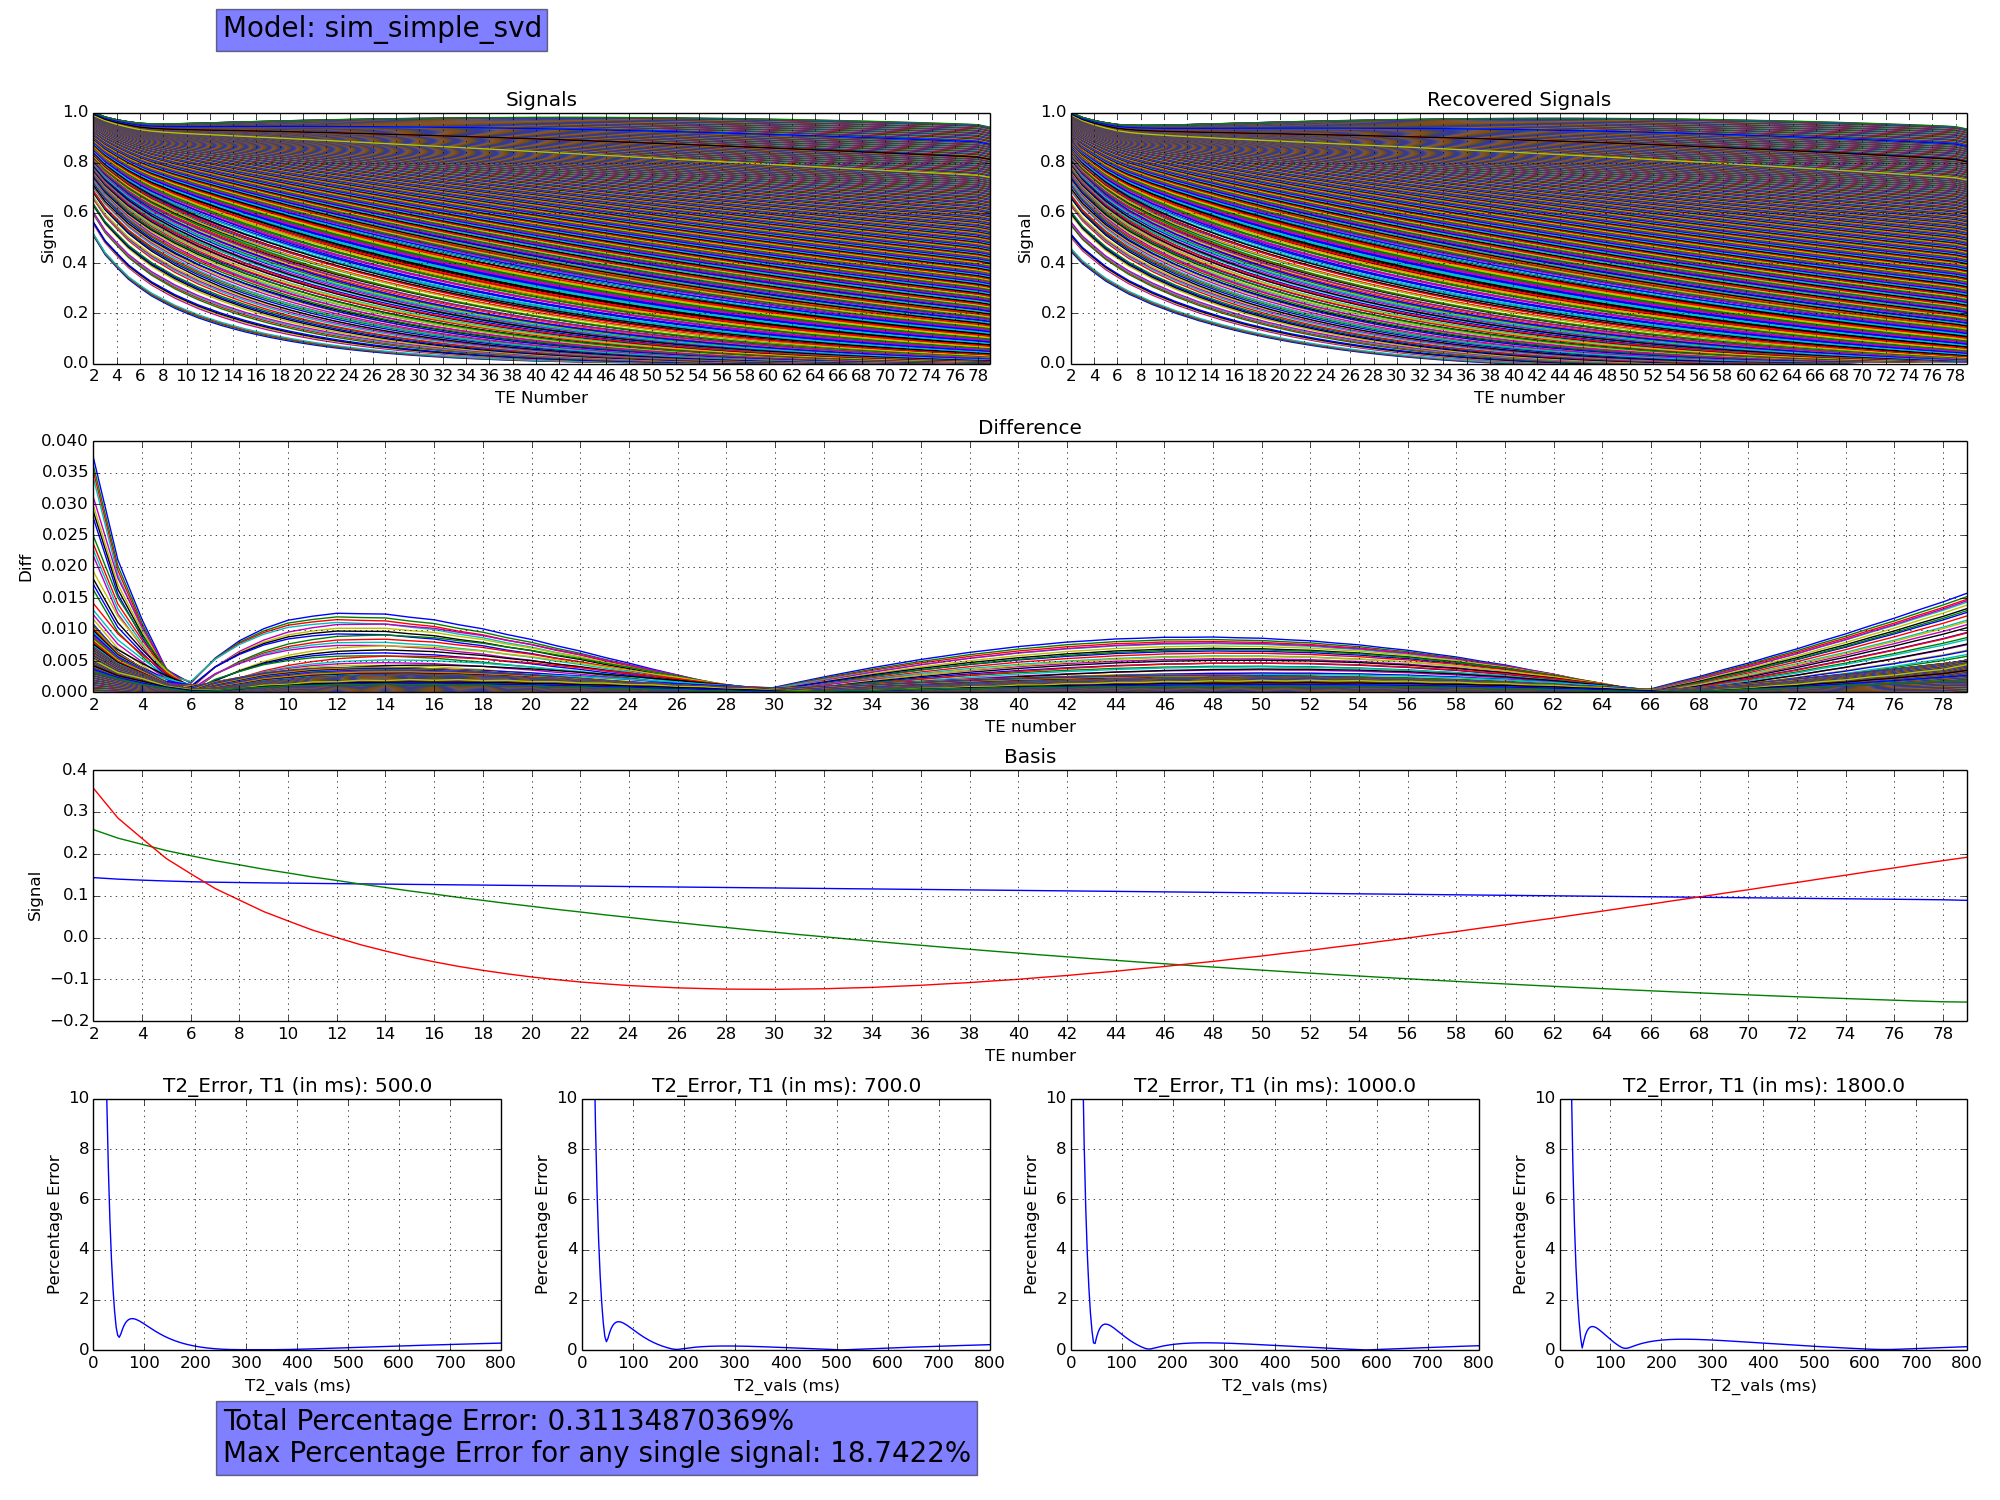
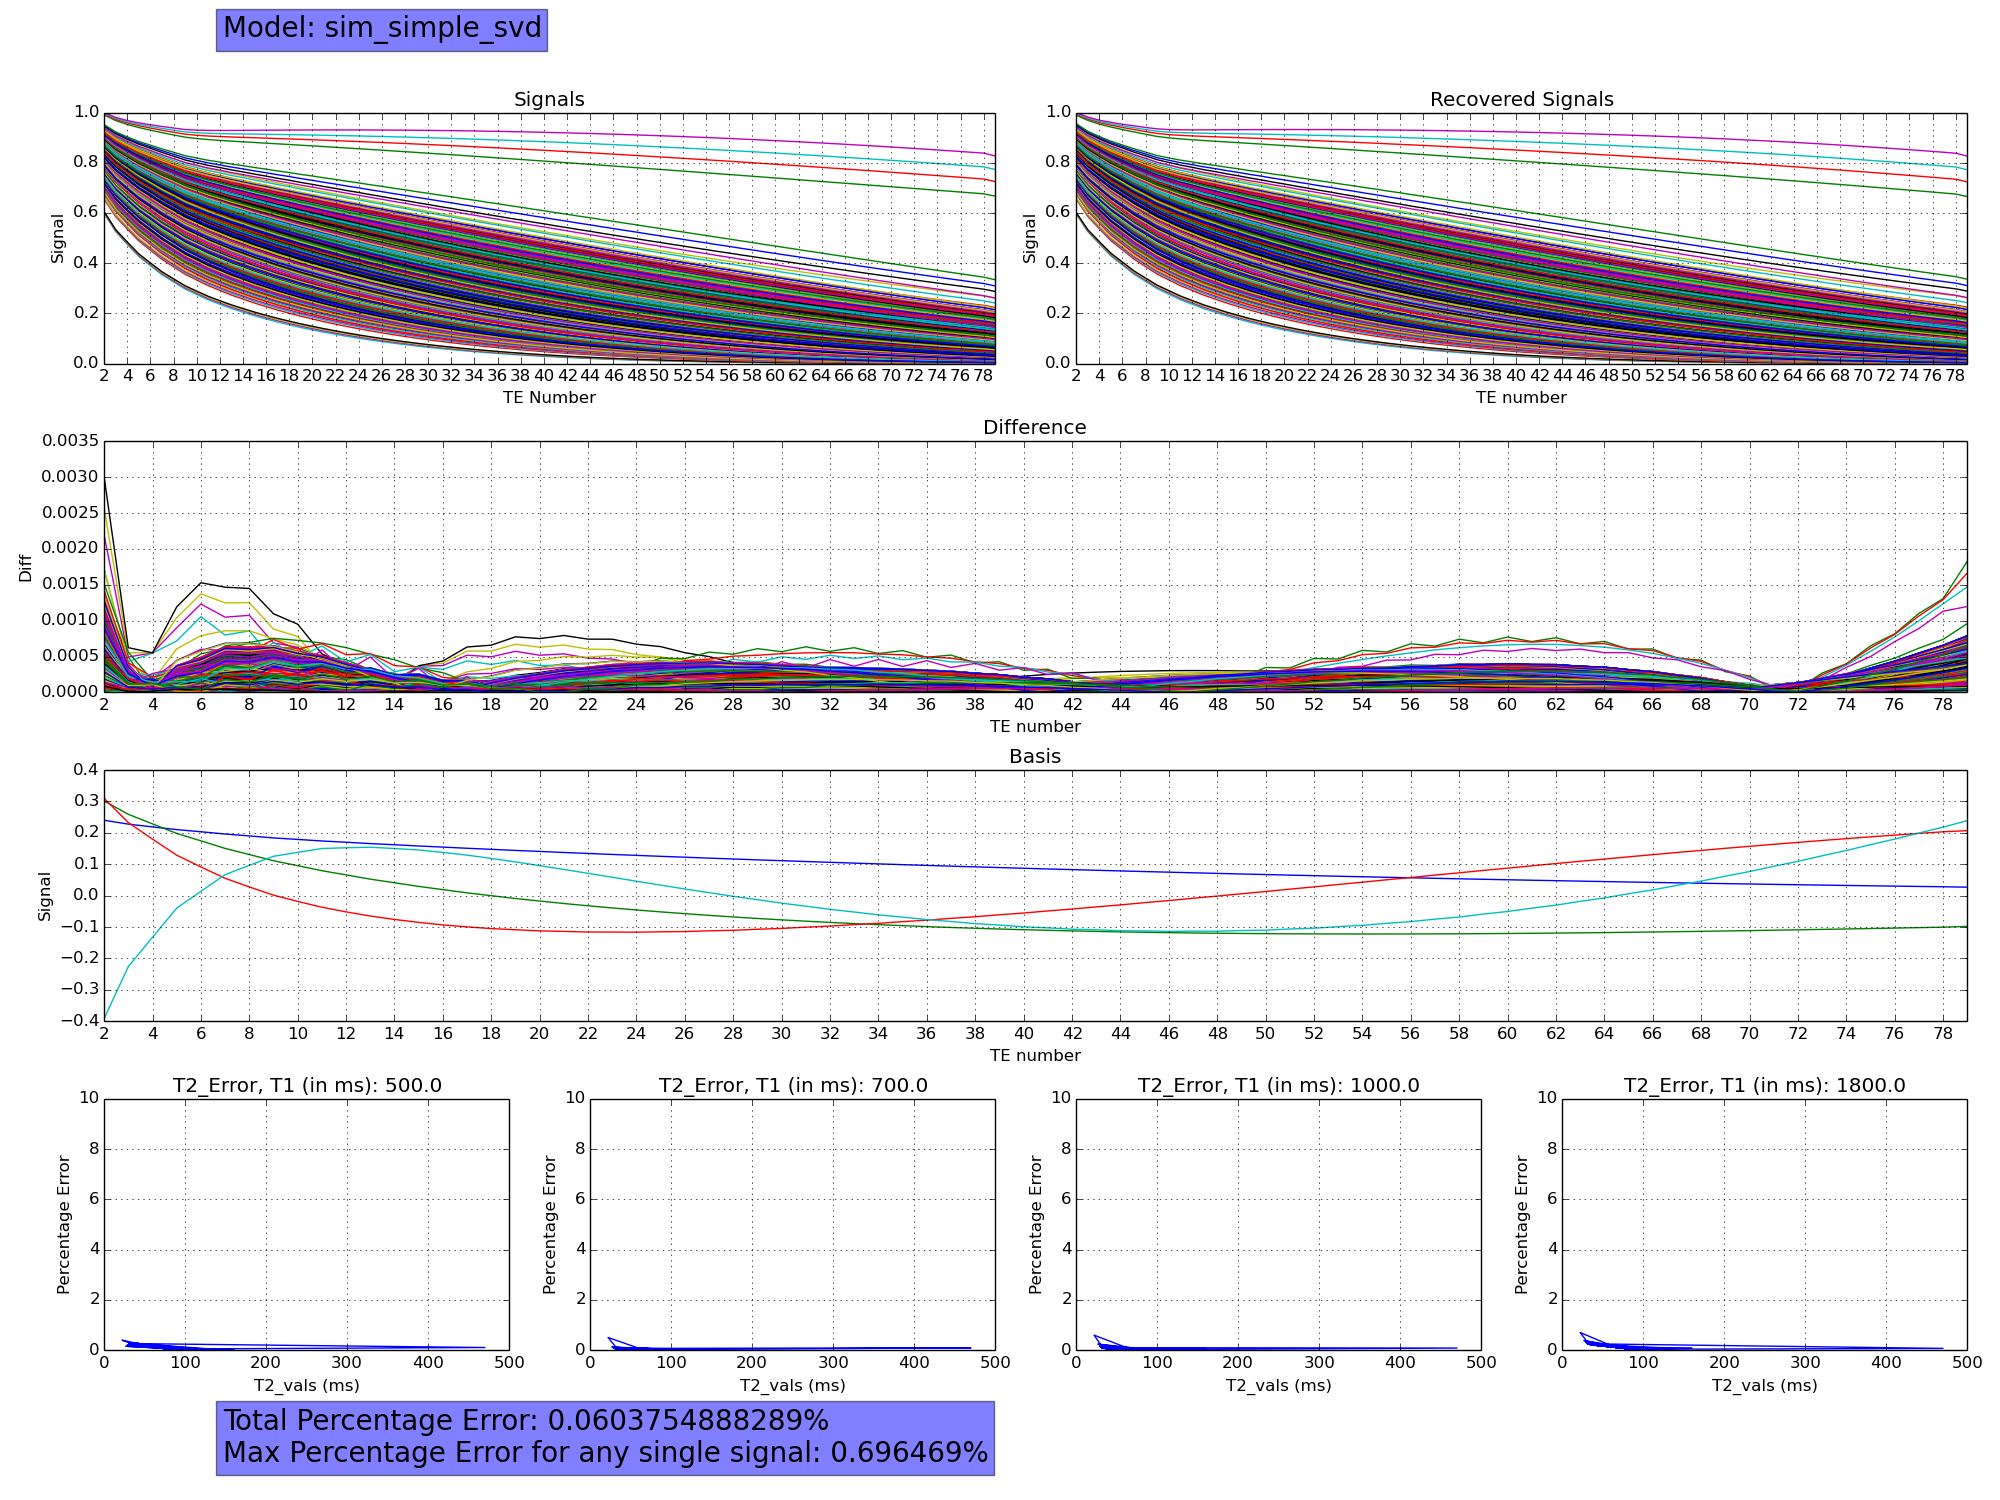
started working on better images at low TEs

diff --git a/src/plot.py b/src/plot.py
@@ -46,7 +46,7 @@ def mksv_plot(ax, data, title, xlabel, ylabel, xstart=0, ylim=None, other_label=
 
 def plot_simulation(U, k, X, X_hat, model_name, T1vals, T2vals, e2s, path):
   span = T1vals.size
-  pnorm, fro_perc_err = get_metric(X, X_hat, disp=False)
+  pnorm, tnorm, fro_perc_err = get_metric(X, X_hat, disp=False)
   fig = plt.figure(figsize=img_size)
   half = int(np.floor(span/2))
   ax1 = plt.subplot2grid((4, span), (0,0), colspan=half)
@@ -62,7 +62,8 @@ def plot_simulation(U, k, X, X_hat, model_name, T1vals, T2vals, e2s, path):
   fig.tight_layout()
   plt.subplots_adjust(top=0.925, bottom=0.1)
   fig.text(0.1115, 0.025, "Total Percentage Error: " + str(fro_perc_err) + \
-    "%\nMax Percentage Error for any single signal: " + str(max(pnorm)) + "%", bbox={'alpha':0.5, 'pad':10}, fontsize=20)
+    "\nMax Percentage Error for any single signal: " + str(max(pnorm)) + "%" + \
+    "\nLowest Percentage Error at any TE: " + str(min(tnorm)), bbox={'alpha':0.5, 'pad':10}, fontsize=20)
   fig.text(0.1115, 1 - 0.025, "Model: " + model_name, fontsize=20, bbox={'alpha':0.5, 'pad':10})
   fig.savefig(path + model_name + '.png')
 

diff --git a/src/metrics.py b/src/metrics.py
@@ -6,11 +6,14 @@ norm = np.linalg.norm
 
 def get_metric(X, Xhat, disp=True):
   delta = X - Xhat
-  snorm = norm(delta, ord=1, axis=0) #Norm per signal
-  fnorm = norm(delta, ord=2)         #Total norm
-  pnorm = (snorm/norm(X, ord=1, axis=0)) * 100 #Percentage Error
-  fro_perc_err = fnorm/norm(X, 'fro') * 100
+  signal_norm = norm(delta, ord=2, axis=0)
+  fro_norm = norm(delta, ord=2) 
+  signal_perc_err = 100 * signal_norm/norm(X, ord=2, axis=0)
+  TE_norm = norm(delta, ord=2, axis=1)
+  TE_perc_err = 100 * TE_norm/norm(X, ord=2, axis=1)
+  fro_perc_err = fro_norm/norm(X, 'fro') * 100
   if disp:
-    print "Maximum percentage error for any single signal: %f" % max(pnorm)
+    print "Maximum percentage error for any single signal: %f" % max(signal_perc_err)
+    print "Minimum percentage error for any single TE: %f" % min(TE_perc_err)
     print "Total Percentage error: %f" % fro_perc_err
-  return pnorm, fro_perc_err
+  return signal_perc_err, TE_perc_err, fro_perc_err

diff --git a/src/main.py b/src/main.py
@@ -175,10 +175,10 @@ for m in lst:
   k = options.k
   U, alpha, X_hat = model(X, options.k, rvc)
   print "Results:"
-  pnorm, fro_perc_err = get_metric(X, X_hat)
+  signal_perc_err, TE_perc_err, fro_perc_err = get_metric(X, X_hat)
   if not k:
     k = U.shape[1]
-  results[m] = {'U':U, 'alpha':alpha, 'k':k, 'X_hat': X_hat, 'Percentage Error per Signal': pnorm, 'Frobenius Percentage Error': fro_perc_err}
+  results[m] = {'U':U, 'alpha':alpha, 'k':k, 'X_hat': X_hat, 'Percentage Error per Signal': signal_perc_err, 'Percentage Error per TE': TE_perc_err, 'Frobenius Percentage Error': fro_perc_err}
 print "------------------------------------------------------------"
 
 

diff --git a/src/models.py b/src/models.py
@@ -174,6 +174,8 @@ def batch_nn(X, k=None, rvc=None):
         alpha - the "jump" of the descent
         lambda - the regularization paramter. """
   from metrics import get_metric
+  if k is None:
+    k = 4
   nn = mr([X.shape[0], k, X.shape[0]])
 
   nn.load_theta('../saves/batch_nn1_sim_theta.npy')
@@ -299,4 +301,10 @@ def reg_svd_sq(X, k=None, rvc=None):
   alpha = compute_alpha(X, U, rvc)
   return U, alpha, np.dot(U[:, :k], alpha[:k])
 
+
 models_dict["reg_svd_sq"] = reg_svd_sq
+
+def TE_svd(X, k=None, rvc=None):
+  return None
+
+models_dict["TE_svd"] = TE_svd
